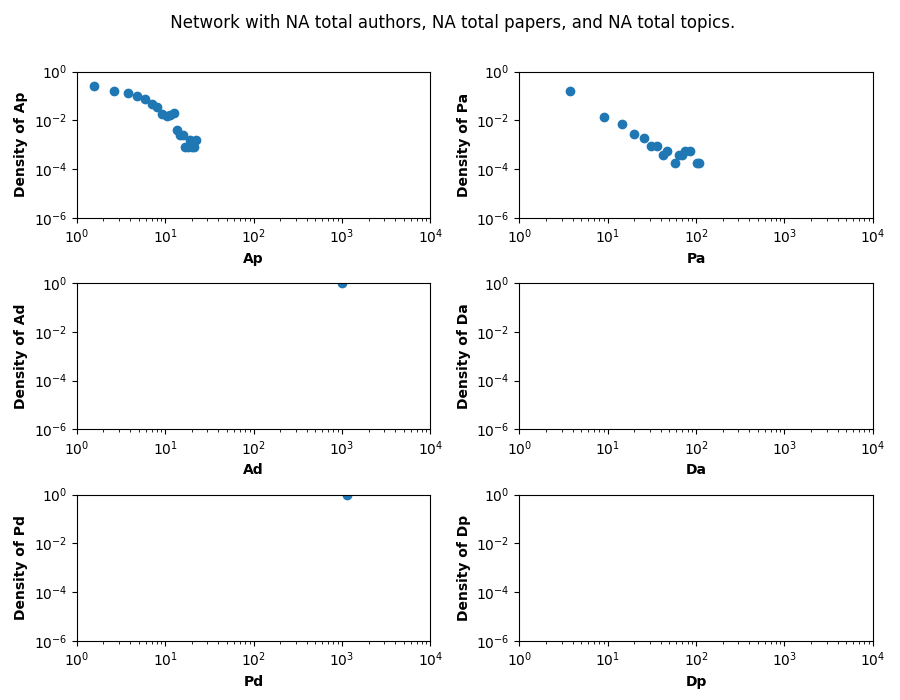
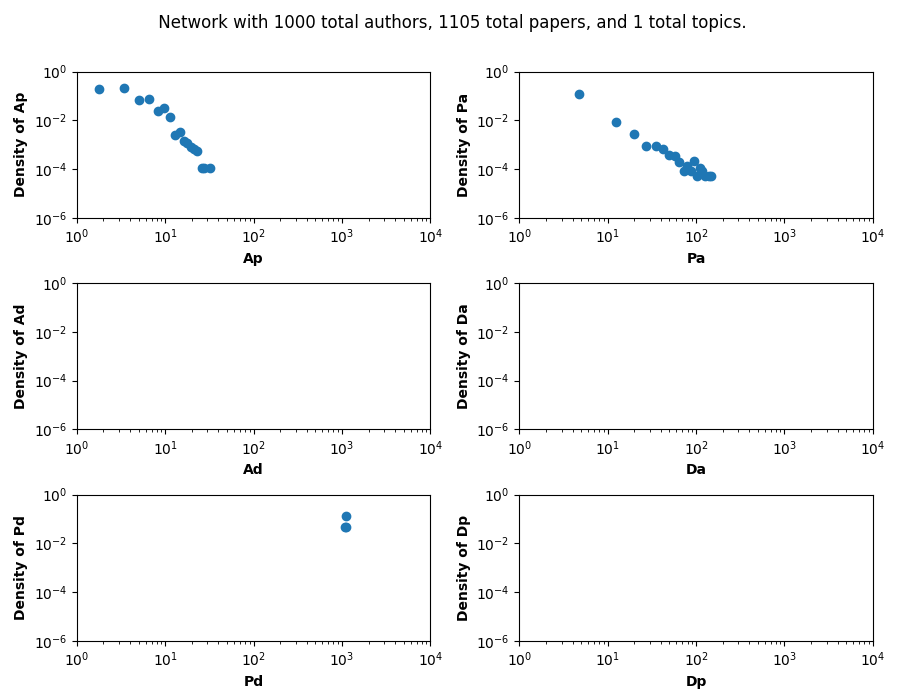
Finished parrallel processing

diff --git a/modelReplication.py b/modelReplication.py
@@ -1,3 +1,4 @@
+from multiprocessing.pool import RUN
 from modules.Evolution import Evolution
 import os
 import sys
@@ -8,10 +9,7 @@ This script attempts to follow replicate the results from the following paper: h
 
 Uses multiprocessing
 '''
-# declare amount of runs to average
-RUNS = 1
-
-def runSimulation(simulationName, simulationObj):
+def runSimulation(simulationObj):
     '''
     simulationObj must contain the following parameters:
     {
@@ -19,6 +17,7 @@ def runSimulation(simulationName, simulationObj):
         'Pw': float
         'Pd': float
         'newAuthors' or 'newPapers': int
+        'simulationName': str
     }
     '''
     model = Evolution(Pn=simulationObj['Pn'], Pw=simulationObj['Pw'], Pd=simulationObj['Pd'])
@@ -26,7 +25,7 @@ def runSimulation(simulationName, simulationObj):
         model.evolve(newPapers=simulationObj['newPapers'])
     else:
         model.evolve(newAuthors=simulationObj['newAuthors'])
-    print(f'Done with simulation {simulationName}')
+    print(f'Done with simulation ' + simulationObj['simulationName'])
     return model.getQuantDistr(), model.getNumAuthors(), model.getNumPapers(), model.getNumTopics()
 
 def combineDescr(descrList):
@@ -38,62 +37,55 @@ def combineDescr(descrList):
         'Pd': [],
         'Dp': []
     }
-    for d in descrList:
-        for key, vals in d.items():
+    sumAuths = 0
+    sumPaps = 0
+    sumTops = 0
+    for des, numAuths, numPaps, numTops in descrList:
+        for key, vals in des.items():
             descr[key].extend(vals)
+        sumAuths += numAuths
+        sumPaps += numPaps
+        sumTops += numTops
 
-    return descr
+    return descr, sumAuths//len(descrList), sumPaps//len(descrList), sumTops//len(descrList)
 
-print(os.cpu_count())
 
-# Declare the Nanobank simulation
-# initialize quant descriptors
-# TODO: add number of scholars, papers, disciplines to the descr and graph
-descr = {
-    'Ap': [],
-    'Pa': [],
-    'Ad': [],
-    'Da': [],
-    'Pd': [],
-    'Dp': []
-}
-for i in range(RUNS):
-    model = Evolution(Pn=0.9, Pw=0.28, Pd=0)
-    model.evolve(newAuthors=1000)
-    descr = model.getQuantDistr(initialDescr=descr)
-    print(f'Done with run {i+1} with nanobank')
-model.plotDescriptorsDistr(saveToFile='outputs/nanobankPlots.png', ylogBase=10, xlogBase=10, data=descr)
+if __name__ == "__main__":
 
-# Declare the Scholarometer simulation
-# initialize quant descriptors
-descr = {
-    'Ap': [],
-    'Pa': [],
-    'Ad': [],
-    'Da': [],
-    'Pd': [],
-    'Dp': []
-}
-for i in range(RUNS):
-    model = Evolution(Pn=0.04, Pw=0.35, Pd=0.01)
-    model.evolve(newAuthors=1000)
-    descr = model.getQuantDistr(initialDescr=descr)
-    print(f'Done with run {i+1} with scholarometer')
-model.plotDescriptorsDistr(saveToFile='outputs/scholarometerPlots.png', ylogBase=10, xlogBase=10, data=descr)
+    # Declare the simulation objects
+    nanobank = {
+        'Pn': 0.90,
+        'Pw': 0.28,
+        'Pd': 0.0,
+        'newAuthors': int(1000),
+        'simulationName': 'Nanobank'
+    }
+    scholarometer = {
+        'Pn': 0.04,
+        'Pw': 0.35,
+        'Pd': 0.01,
+        'newAuthors': int(2.2*10**4),
+        'simulationName': 'Scholarometer'
+    }
+    bibsonomy = {
+        'Pn': 0.80,
+        'Pw': 0.71,
+        'Pd': 0.50,
+        'newPapers': int(2.9*10**5),
+        'simulationName': 'Bibsonomy'
+    }
 
-# Declare the Bibsonomy simulation
-# initialize quant descriptors
-descr = {
-    'Ap': [],
-    'Pa': [],
-    'Ad': [],
-    'Da': [],
-    'Pd': [],
-    'Dp': []
-}
-for i in range(RUNS):
-    model = Evolution(Pn=0.80, Pw=0.71, Pd=0.50)
-    model.evolve(newPapers=1000)
-    descr = model.getQuantDistr(initialDescr=descr)
-    print(f'Done with run {i+1} with bibsonomy')
-model.plotDescriptorsDistr(saveToFile='outputs/bibsonomyPlots.png', ylogBase=10, xlogBase=10, data=descr)
+
+    print(os.cpu_count())
+    # declare amount of runs to average
+    RUNS = 5
+
+    # declare multiprocessing
+    pool = Pool()
+
+    data = pool.map(runSimulation, [nanobank] * RUNS)
+    pool.close()
+    data = list(data)
+    descr, numAuths, numPaps, numTops = combineDescr(data)
+    Evolution().plotDescriptorsDistr(saveToFile='outputs/nanobankPlots.png', ylogBase=10, xlogBase=10, data=descr, 
+                                    numAuthors=numAuths, numPapers=numPaps, numTopics=numTops)
